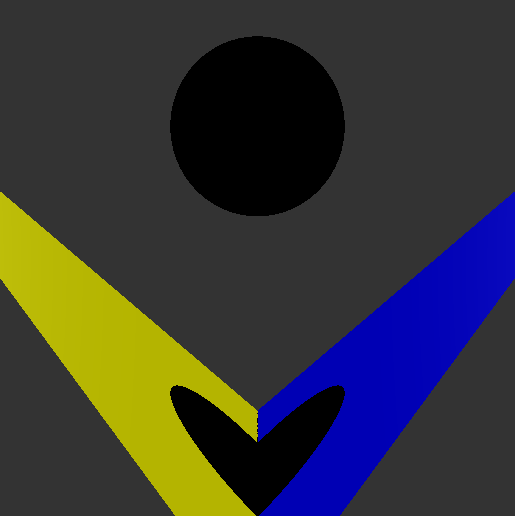
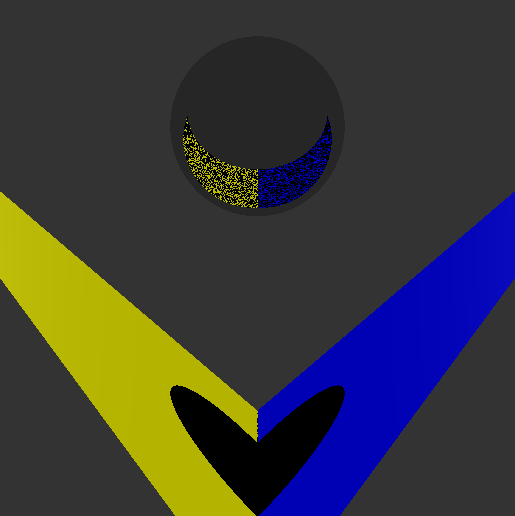
slow and steady...

Changed region(s): [[0.3107, 0.062, 0.6835, 0.4341]]

diff --git a/src/main/PrivateUtilities.java b/src/main/PrivateUtilities.java
@@ -7,63 +7,30 @@ public class PrivateUtilities {
 	public PrivateUtilities() {
 	}
 
-	private float mix(float a, float b, float mix) {
-		return b * mix + a * (1 - mix);
-	}
+	public Color specular(Color finalColor, Object winningObject, Vector3D intersectionPosition, Light lightSource,
+			double ambientLight, Vector3D eye) {
+		Vector3D n = winningObject.getNormalAt(intersectionPosition);
 
-	final private static int MAX_RAY_DEPTH = 5;
-	float bias = (float) 1e-4;
+		final Color Ca = new Color(ambientLight);
+		final Color Cl = Main.white;
 
-	public Color colorThisShiz(Color finalColor, Object winningObject, Vector3D intersectionPosition, Light lightSource,
-			double ambientLight, Vector3D eye, Vector3D raydir, Vector3D rayorig, ArrayList<Object> objects,
-			int depth) {
-		final Vector3D n = winningObject.getNormalAt(intersectionPosition);
-		if (winningObject.getReflective() != null && depth < MAX_RAY_DEPTH) {
-			float facingratio = (float) raydir.negative().dot(n);
-			// change the mix value to tweak the effect
-			float fresneleffect = mix((float) Math.pow(1 - facingratio, 3), 1, (float) 0.1);
-			// compute reflection direction (not need to normalize because all
-			// vectors
-			// are already normalized)
-			Vector3D refldir = eye.sub(n).multiply(2).multiply(raydir.dot(n));
-			refldir.normalize();
-			// const Vec3f &rayorig,
-			// const Vec3f &raydir,
-			// const std::vector<Sphere> &spheres,
-			// const int &depth)
+		final Vector3D l = new Vector3D(lightSource.getPosition());
+		final int p = winningObject.getPhongConstant();
+		final Color Cp = new Color(winningObject.getSpecularHighlight());
+		final Vector3D e = new Vector3D(eye);
+		// r = 2n(n dot l) - l
 
-			Color reflection = colorThisShiz(finalColor, winningObject, intersectionPosition, lightSource, ambientLight,
-					eye, intersectionPosition.add(n.multiply(bias)), refldir, objects, depth + 1);
-			// if the sphere is also transparent compute refraction ray
-			// (transmission)
-
-			// the result is a mix of reflection and refraction (if the sphere
-			// is transparent)
-			finalColor = (reflection.multiply(fresneleffect).multiply(winningObject.getColor()));
-			return finalColor;
-		} else {
-
-			final Color Ca = new Color(ambientLight);
-			final Color Cl = Main.white;
-
-			final Vector3D l = new Vector3D(lightSource.getPosition());
-			final int p = winningObject.getPhongConstant();
-			final Color Cp = new Color(winningObject.getSpecularHighlight());
-			final Vector3D e = new Vector3D(eye);
-			// r = 2n(n dot l) - l
-
-			// color = Cr (Ca + Cl Max(0, n dot l)) + ClCp max(0, e dot r) ^ p
-			final Color diffuse = finalColor
-					.multiply(Cl.multiply(Math.max(0, n.dot(winningObject instanceof Triangle ? l.negative() : l))));
-			Color specular = new Color(0);
-			if (!diffuse.equals(specular)) {
-				final Vector3D r = new Vector3D(n.multiply(2).multiply(n.dot(l)).sub(l));
-				specular = Cl.multiply(Cp).multiply(Math.pow(Math.max(0, e.dot(r)), p));
-			}
-			final Color ambient = Ca.multiply(winningObject.getColor()).multiply(Cl);
-			final Color surfaceColor = diffuse.add(specular);
-			return surfaceColor.add(ambient);
+		// color = Cr (Ca + Cl Max(0, n dot l)) + ClCp max(0, e dot r) ^ p
+		final Color diffuse = finalColor
+				.multiply(Cl.multiply(Math.max(0, n.dot(winningObject instanceof Triangle ? l.negative() : l))));
+		Color specular = new Color(0);
+		if (!diffuse.equals(specular)) {
+			final Vector3D r = new Vector3D(n.multiply(2).multiply(n.dot(l)).sub(l));
+			specular = Cl.multiply(Cp).multiply(Math.pow(Math.max(0, e.dot(r)), p));
 		}
+		final Color ambient = Ca.multiply(winningObject.getColor()).multiply(Cl);
+		final Color surfaceColor = diffuse.add(specular);
+		return surfaceColor.add(ambient);
 
 	}
 
@@ -71,6 +38,8 @@ public class PrivateUtilities {
 			ArrayList<Object> sceneObjects, int indexOfWinningObject) {
 		Vector3D distanceToLight = new Vector3D(
 				lightSource.getPosition().add(intersectionPosition.negative()).normalize());
+		if (finalColor == null)
+			return null;
 		float distanceToLightMagnitude = (float) distanceToLight.magnitude();
 
 		Ray shadowRay = new Ray(intersectionPosition, lightSource.getPosition());
@@ -93,4 +62,54 @@ public class PrivateUtilities {
 		}
 		return new Color(finalColor);
 	}
+
+	public Color reflective(Color finalColor, Object winningObject, Vector3D intersectionPosition,
+			Vector3D intersectingRayDirection, ArrayList<Object> objects) {
+		Vector3D winningObjectNormal = winningObject.getNormalAt(intersectionPosition);
+		float accuracy = (float) 0.0000001;
+		double dot1 = winningObjectNormal.dot(intersectingRayDirection.negative());
+		Vector3D scalar1 = winningObjectNormal.multiply(dot1);
+		Vector3D add1 = scalar1.add(intersectingRayDirection);
+		Vector3D scalar2 = add1.multiply(2);
+		Vector3D add2 = intersectingRayDirection.negative().add(scalar2);
+		Vector3D reflectionDirection = add2.normalize();
+
+		Ray reflectionRay = new Ray(intersectionPosition, reflectionDirection);
+
+		// determine what the ray intersects with first
+		List<Double> reflectionIntersections = new ArrayList<>();
+		for (int reflectionIndex = 0; reflectionIndex < objects.size(); reflectionIndex++) {
+			reflectionIntersections.add(objects.get(reflectionIndex).findIntersection(reflectionRay));
+		}
+		int indexOfWinningObjectWithReflection = PublicUtilities
+				.winningObjectIndex((ArrayList<Double>) reflectionIntersections);
+
+		if (indexOfWinningObjectWithReflection != -1) {
+			// reflection ray missed everything else
+			if (reflectionIntersections.get(indexOfWinningObjectWithReflection) > accuracy) {
+				// determine the position and direction at the point of
+				// intersection with the reflection ray
+				// the ray only affects the color if it reflected off something
+				Vector3D reflectionIntersectionPosition = intersectionPosition.add(
+						reflectionDirection.multiply(reflectionIntersections.get(indexOfWinningObjectWithReflection)));
+				Vector3D reflectionIntersectionRayDirection = reflectionDirection;
+				// recursive call explained at 30:00 in episode 8
+				Color reflectionIntersectionColor = reflective(
+						objects.get(indexOfWinningObjectWithReflection).getColor(),
+						objects.get(indexOfWinningObjectWithReflection), reflectionIntersectionPosition,
+						reflectionIntersectionRayDirection, objects);
+				if (reflectionIntersectionColor != null) {
+					finalColor = new Color(reflectionIntersectionColor.multiply(winningObject.getReflective()));
+				} else {
+					finalColor = null;
+				}
+			}
+		} else {
+			finalColor = new Color(0.2, 0.2, 0.2).multiply(winningObject.getReflective());
+		}
+
+		return finalColor;
+
+	}
+
 }

diff --git a/src/main/PublicUtilities.java b/src/main/PublicUtilities.java
@@ -66,9 +66,14 @@ public class PublicUtilities {
 		if (winningObject.getColor() != null)
 			finalColor = privateUtilities.checkShadows(winningObject.getColor(), winningObject, intersectionPosition,
 					lightSource, sceneObjects, indexOfWinningObject);
-		if (finalColor == null || !finalColor.equals(Main.black))
-			finalColor = privateUtilities.colorThisShiz(winningObject.getColor(), winningObject, intersectionPosition,
-					lightSource, ambientLight, e, intersectionRayDirection, intersectionPosition, sceneObjects, 0);
+		if (winningObject.getSpecularHighlight() != null) {
+			if (!finalColor.equals(Main.black))
+				finalColor = privateUtilities.specular(winningObject.getColor(), winningObject, intersectionPosition,
+						lightSource, ambientLight, e);
+		} else if (winningObject.getReflective() != null) {
+			finalColor = privateUtilities.reflective(winningObject.getColor(), winningObject, intersectionPosition,
+					intersectionRayDirection, sceneObjects);
+		}
 
 		return finalColor != null ? finalColor.clip() : finalColor;
 	}

diff --git a/src/main/Color.java b/src/main/Color.java
@@ -10,10 +10,12 @@ public class Color {
 	}
 
 	public Color(Color color) {
+		if (color != null) {
+			this.red = color.red;
+			this.green = color.green;
+			this.blue = color.blue;
+		}
 
-		this.red = color.red;
-		this.green = color.green;
-		this.blue = color.blue;
 	}
 
 	public Color(RGB temp) {
@@ -32,7 +34,7 @@ public class Color {
 	}
 
 	public Color multiply(RGB temp) {
-		return new Color(temp).multiply(this);
+		return this.multiply(new Color(temp));
 	}
 
 	public double brightness() {

diff --git a/src/main/Main.java b/src/main/Main.java
@@ -76,7 +76,7 @@ public class Main {
 
 			Vector3D lightPosition = new Vector3D(0, 1, 0);
 			lightSource = new Light(lightPosition, white);
-			Sphere sceneSphere1 = new Sphere(new Vector3D(0, .3, 0), 0.2, new Color(backgroundColor));
+			Sphere sceneSphere1 = new Sphere(new Vector3D(0, .3, 0), 0.2);
 			sceneSphere1.setReflective(new RGB(.75, .75, .75));
 			Triangle sceneTriangle1 = new Triangle(new Vector3D(0, -.5, .5), new Vector3D(1, .5, 0),
 					new Vector3D(0, -.5, -.5), blue);
